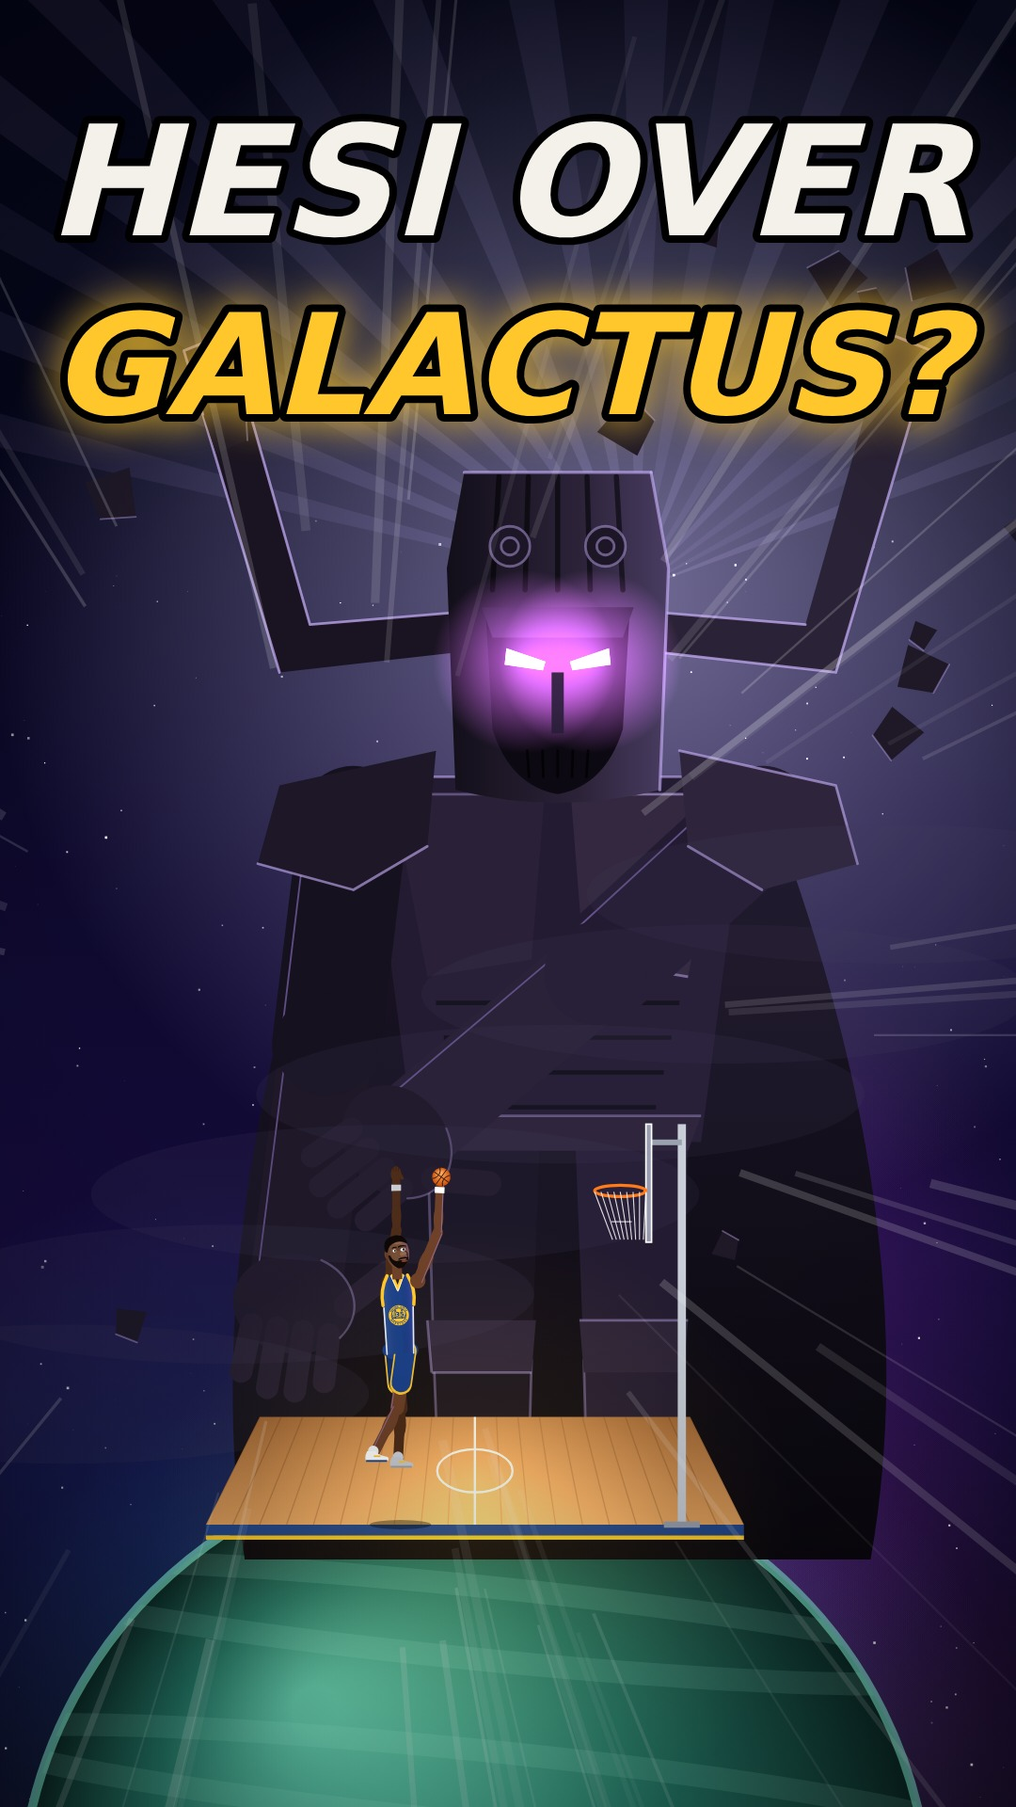
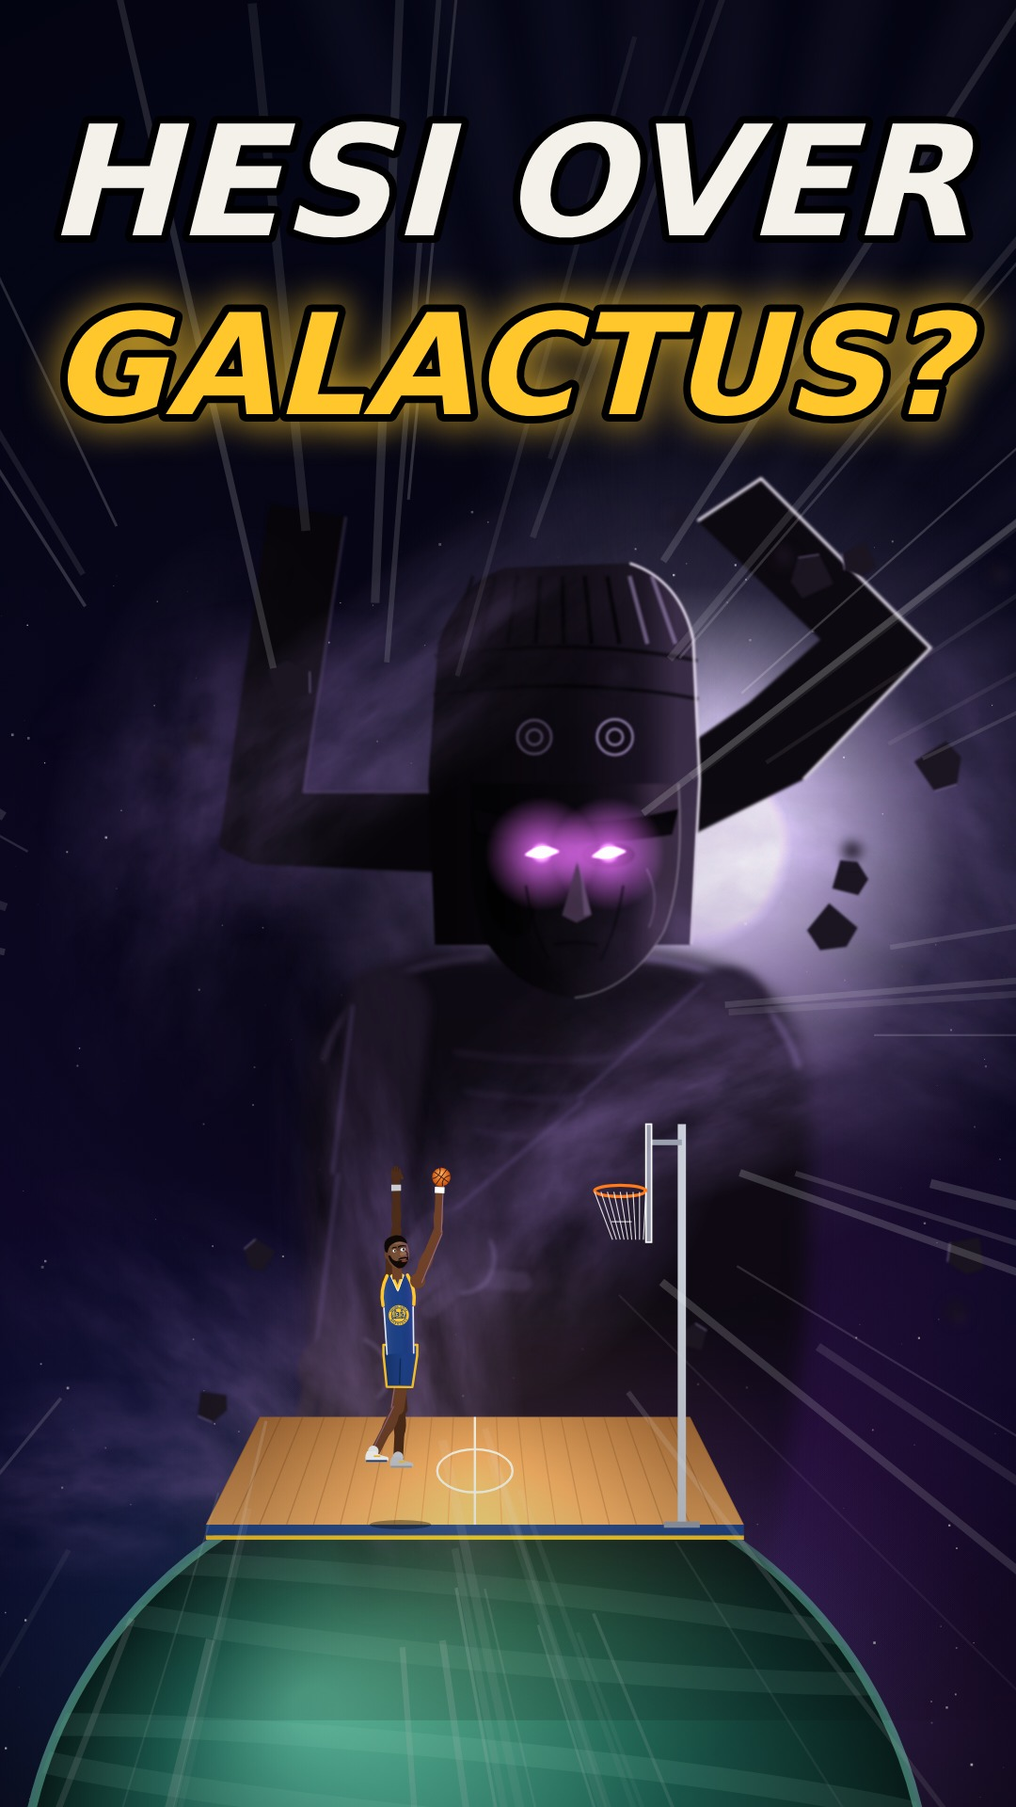
KD vs Galactus: one-piece shorts (hull), Galactus matched side-by-side to the reference (3/4 head, L + chevron fins, crown, texture, backlight)
Claude-Session: https://claude.ai/code/session_013waGN2ARspf4yShZssZUe5

diff --git a/youtube/you-experiment/kd-galactus/source_code/kdg2.html b/youtube/you-experiment/kd-galactus/source_code/kdg2.html
@@ -39,6 +39,15 @@ const hoop = (x, gy, ks, net = 9) => { if (!(net >= 0)) net = 9; g.save(); g.tra
 const ball = (x, y, r, spin = 0) => { g.save(); g.translate(x, y); g.rotate(spin); const q = g.createRadialGradient(-r * 0.35, -r * 0.35, r * 0.1, 0, 0, r); q.addColorStop(0, '#ffab5c'); q.addColorStop(1, '#c9500a'); g.fillStyle = q; g.beginPath(); g.arc(0, 0, r, 0, 7); g.fill(); g.strokeStyle = '#2a1205'; g.lineWidth = r * 0.09; g.beginPath(); g.moveTo(-r, 0); g.lineTo(r, 0); g.moveTo(0, -r); g.lineTo(0, r); g.stroke(); g.beginPath(); g.arc(-r * 1.25, 0, r * 0.9, -0.9, 0.9); g.stroke(); g.beginPath(); g.arc(r * 1.25, 0, r * 0.9, Math.PI - 0.9, Math.PI + 0.9); g.stroke(); g.restore(); };
 const comet = (pts, r) => { for (let i = 0; i < pts.length - 1; i++) { const k = i / pts.length; g.strokeStyle = `rgba(255,${150 + 80 * k},60,${k * 0.8})`; g.lineWidth = r * 2 * k; g.lineCap = 'round'; g.beginPath(); g.moveTo(...pts[i]); g.lineTo(...pts[i + 1]); g.stroke(); } const p = pts[pts.length - 1]; glow(p[0], p[1], r * 5, '255,170,60', 0.7); };
 
+
+// ---------- painterly smoke texture (fbm value noise, generated once) ----------
+const CLOUD = (() => { const n = 384, c = document.createElement('canvas'); c.width = c.height = n; const x = c.getContext('2d'), im = x.createImageData(n, n);
+  const r = (i, j) => { const v = Math.sin(i * 127.1 + j * 311.7) * 43758.5453; return v - Math.floor(v); }; const sm2 = (t) => t * t * (3 - 2 * t);
+  const vn = (px, py) => { const i = Math.floor(px), j = Math.floor(py), fx = sm2(px - i), fy = sm2(py - j); const a = r(i, j), b = r(i + 1, j), c2 = r(i, j + 1), d = r(i + 1, j + 1); return a + (b - a) * fx + (c2 - a) * fy + (a - b - c2 + d) * fx * fy; };
+  for (let yy = 0; yy < n; yy++) for (let xx = 0; xx < n; xx++) { let v = 0, amp = 0.55, f = 4 / n; for (let o = 0; o < 6; o++) { v += vn(xx * f, yy * f) * amp; f *= 2; amp *= 0.5; } const dx = xx / n - 0.5, dy = yy / n - 0.5, fall = Math.max(0, 1 - Math.sqrt(dx * dx + dy * dy) * 2); const a = Math.max(0, Math.min(1, (v - 0.38) * 2.2)) * fall; const k = (yy * n + xx) * 4; im.data[k] = 70 + v * 90; im.data[k + 1] = 55 + v * 70; im.data[k + 2] = 95 + v * 110; im.data[k + 3] = a * 255; }
+  x.putImageData(im, 0, 0); return c; })();
+const smoke = (cx, cy, w, h, a, rot = 0) => { g.save(); g.globalAlpha = a; g.translate(cx, cy); g.rotate(rot); g.drawImage(CLOUD, -w / 2, -h / 2, w, h); g.restore(); };
+
 // ---------- VFX ----------
 const speedLines = (cx, cy, a = 1, n = 70, col = '255,255,255') => { g.save(); g.globalAlpha = a; for (let i = 0; i < n; i++) { const ang = hash(i + Math.floor(T * 24) * 0.1) * Math.PI * 2, r0 = 380 + hash(i + 7) * 300, r1 = r0 + 500 + hash(i + 3) * 900; g.strokeStyle = `rgba(${col},${0.25 + hash(i) * 0.5})`; g.lineWidth = 2 + hash(i + 1) * 8; g.beginPath(); g.moveTo(cx + Math.cos(ang) * r0, cy + Math.sin(ang) * r0); g.lineTo(cx + Math.cos(ang) * r1, cy + Math.sin(ang) * r1); g.stroke(); } g.restore(); };
 const shock = (x, y, u, rMax = 900, col = '255,230,160') => { if (u <= 0 || u >= 1) return; g.save(); g.strokeStyle = `rgba(${col},${1 - u})`; g.lineWidth = 40 * (1 - u); g.beginPath(); g.arc(x, y, rMax * ease(u), 0, 7); g.stroke(); g.lineWidth = 12 * (1 - u); g.beginPath(); g.arc(x, y, rMax * 0.7 * ease(u), 0, 7); g.stroke(); g.restore(); };
@@ -88,9 +97,13 @@ const kd = (x, y, s, pose, o = {}) => { g.save(); g.translate(x, y - (o.jump || 
     const a = Math.atan2(hy - ey, hx - ex); const wx = lerp(ex, hx, 0.84), wy = lerp(ey, hy, 0.84); g.save(); g.translate(wx, wy); g.rotate(a); g.fillStyle = back ? '#c9ccd3' : '#fff'; g.fillRect(-12, -19, 24, 38); g.restore();
     g.save(); g.translate(hx, hy); g.rotate(a); g.fillStyle = sk; g.beginPath(); g.ellipse(22, 0, 30, 21, 0, 0, 7); g.fill(); g.beginPath(); g.ellipse(14, sd * -18 * (o.flip ? -1 : 1), 16, 8, -0.6, 0, 7); g.fill(); g.strokeStyle = 'rgba(0,0,0,0.25)'; g.lineWidth = 3; for (let k = 0; k < 3; k++) { g.beginPath(); g.moveTo(34, -10 + k * 10); g.lineTo(48, -10 + k * 10); g.stroke(); } g.restore();
     return [hx + Math.cos(a) * 26, hy + Math.sin(a) * 26]; };
-  arm(0, true); leg(0, true); sleeve(0, true);
-  g.fillStyle = C.blue; g.beginPath(); g.ellipse(0, -14, 70, 40, 0, 0, 7); g.fill();
-  leg(1, false); sleeve(1, false);
+  arm(0, true); leg(0, true); leg(1, false);
+  // shorts: one garment = convex hull of the waistband and both thigh openings (so no leg can ever poke out of it)
+  { const pts = [[-66, -34], [66, -34], [-60, 10], [60, 10]]; const ends = [];
+    for (const i of [0, 1]) { const hx = i ? 20 : -20; const [kx, ky] = L(i); const ex = lerp(hx, kx, 0.58), ey = lerp(0, ky, 0.58); const a = Math.atan2(ky, kx - hx), nx = Math.cos(a), ny = Math.sin(a); const px = -ny * 46, py = nx * 46; pts.push([ex + px, ey + py], [ex - px, ey - py], [hx + px, py], [hx - px, -py]); ends.push([ex, ey]); }
+    const hull = (P) => { P = P.slice().sort((a, b) => a[0] - b[0] || a[1] - b[1]); const cr = (o, a, b) => (a[0] - o[0]) * (b[1] - o[1]) - (a[1] - o[1]) * (b[0] - o[0]); const lo = [], up = []; for (const p of P) { while (lo.length >= 2 && cr(lo[lo.length - 2], lo[lo.length - 1], p) <= 0) lo.pop(); lo.push(p); } for (const p of P.slice().reverse()) { while (up.length >= 2 && cr(up[up.length - 2], up[up.length - 1], p) <= 0) up.pop(); up.push(p); } return lo.slice(0, -1).concat(up.slice(0, -1)); };
+    const H = hull(pts); g.lineJoin = 'round'; g.beginPath(); H.forEach(([px, py], k) => k ? g.lineTo(px, py) : g.moveTo(px, py)); g.closePath(); g.fillStyle = C.blue; g.fill(); const sq = g.createLinearGradient(-80, 0, 80, 0); sq.addColorStop(0, 'rgba(0,0,0,0.25)'); sq.addColorStop(0.6, 'rgba(0,0,0,0)'); sq.addColorStop(1, 'rgba(140,110,255,0.25)'); g.fillStyle = sq; g.fill(); g.strokeStyle = C.gold; g.lineWidth = 9; g.stroke();
+    g.strokeStyle = 'rgba(8,20,50,0.55)'; g.lineWidth = 5; g.beginPath(); g.moveTo(0, 20); g.lineTo((ends[0][0] + ends[1][0]) / 2, Math.max(ends[0][1], ends[1][1]) - 6); g.stroke(); }
   // jersey: Warriors-style blue tank, gold V-neck (white inner line), wide gold armholes, circle crest with bridge + 35
   g.save(); g.rotate(p.lean); g.fillStyle = C.blue; g.beginPath(); g.moveTo(-40, -305); g.quadraticCurveTo(-70, -250, -60, -190); g.lineTo(-54, 0); g.lineTo(54, 0); g.lineTo(60, -190); g.quadraticCurveTo(70, -250, 40, -305); g.lineTo(18, -305); g.lineTo(0, -255); g.lineTo(-18, -305); g.closePath(); g.fill();
   const jq = g.createLinearGradient(-64, 0, 64, 0); jq.addColorStop(0, 'rgba(255,255,255,0.10)'); jq.addColorStop(0.55, 'rgba(0,0,0,0)'); jq.addColorStop(1, 'rgba(120,90,255,0.32)'); g.fillStyle = jq; g.fill();
@@ -127,12 +140,13 @@ const ghost = (fn, n = 4) => { for (let i = n; i >= 1; i--) { g.save(); g.global
 // side discs and the two huge L-shaped fins, shadowed face, glowing violet eyes, angular armour plates, drifting rocks.
 const DK = '#16111f', DK2 = '#231b31', RIML = 'rgba(205,180,255,';
 const plate = (pts, col, rimA = 0.5) => { g.fillStyle = col; g.beginPath(); pts.forEach(([px, py], i) => i ? g.lineTo(px, py) : g.moveTo(px, py)); g.closePath(); g.fill(); g.strokeStyle = RIML + rimA + ')'; g.lineWidth = 6; g.beginPath(); for (let i = 0; i < pts.length - 1; i++) { const [ax, ay] = pts[i], [bx, by] = pts[i + 1]; if (bx > ax || by < ay) { g.moveTo(ax, ay); g.lineTo(bx, by); } } g.stroke(); };
-const giant = (x, y, s0, o = {}) => { const s = s0 * 0.8; /* head drawn 1.3x: keep helmet top at the official 28'9" */ g.save(); g.translate(x, y); g.scale(s, s); const zs = Math.abs(g.getTransform().a) || 1; const bl = (px) => `blur(${Math.max(0.5, px * zs * 3).toFixed(1)}px)`;
+const giant = (x, y, s0, o = {}) => { const s = s0 * 0.75; /* head drawn 1.3x: keep helmet top at the official 28'9" */ g.save(); g.translate(x, y); g.scale(s, s); const zs = Math.abs(g.getTransform().a) || 1; const bl = (px) => `blur(${Math.max(0.5, px * zs * 3).toFixed(1)}px)`;
   // 1. backlight bloom + soft rays from behind the upper right of the head
-  glow(260, -2250, 1700, '235,225,255', 0.5); glow(260, -2250, 600, '255,250,255', 0.6);
-  g.save(); g.filter = bl(14); g.globalCompositeOperation = 'lighter'; for (let i = 0; i < 18; i++) { const a = -Math.PI * 0.62 + i * 0.13 + Math.sin(T * 0.25 + i) * 0.02, len = 2400 + hash(i) * 1600; g.fillStyle = `rgba(215,200,255,${0.05 + hash(i + 3) * 0.05})`; g.beginPath(); g.moveTo(260, -2250); g.lineTo(260 + Math.cos(a - 0.035) * len, -2250 + Math.sin(a - 0.035) * len); g.lineTo(260 + Math.cos(a + 0.035) * len, -2250 + Math.sin(a + 0.035) * len); g.closePath(); g.fill(); } g.restore();
+  { const dq = g.createRadialGradient(0, -1700, 300, 0, -1700, 2800); dq.addColorStop(0, 'rgba(4,3,6,0.75)'); dq.addColorStop(1, 'rgba(4,3,6,0)'); g.fillStyle = dq; g.fillRect(-3000, -4600, 6000, 5200); } glow(420, -2080, 1300, '215,200,245', 0.32); g.save(); g.globalCompositeOperation = 'lighter'; smoke(560, -2150, 1300, 900, 0.35, 0.4); smoke(300, -2500, 1100, 800, 0.25, 1.4); g.restore(); glow(430, -2080, 800, '255,250,255', 0.85); glow(400, -2070, 320, '255,255,255', 1); glow(400, -2070, 140, '255,255,255', 1);
+  g.save(); g.filter = bl(14); g.globalCompositeOperation = 'lighter'; for (let i = 0; i < 18; i++) { const a = -Math.PI * 0.62 + i * 0.13 + Math.sin(T * 0.25 + i) * 0.02, len = 2400 + hash(i) * 1600; g.fillStyle = `rgba(215,200,255,${0.025 + hash(i + 3) * 0.025})`; g.beginPath(); g.moveTo(260, -2250); g.lineTo(260 + Math.cos(a - 0.035) * len, -2250 + Math.sin(a - 0.035) * len); g.lineTo(260 + Math.cos(a + 0.035) * len, -2250 + Math.sin(a + 0.035) * len); g.closePath(); g.fill(); } g.restore();
+  for (let k = 0; k < 5; k++) smoke(-900 + k * 520 + Math.sin(T * 0.2 + k) * 60, -2300 + (k % 2) * 400, 1600, 1100, 0.45, k);
   // 2. smoky body mass: shoulders + chest dissolving downward
-  g.save(); g.filter = bl(10); const bq = g.createLinearGradient(0, -1800, 0, 300); bq.addColorStop(0, 'rgba(22,16,30,1)'); bq.addColorStop(0.55, 'rgba(20,15,28,0.92)'); bq.addColorStop(1, 'rgba(20,15,28,0)'); g.fillStyle = bq;
+  g.save(); g.filter = bl(10); const bq = g.createLinearGradient(0, -1800, 0, 300); bq.addColorStop(0, 'rgba(14,10,19,1)'); bq.addColorStop(0.55, 'rgba(13,9,17,0.94)'); bq.addColorStop(1, 'rgba(20,15,28,0)'); g.fillStyle = bq;
   g.beginPath(); g.moveTo(-200, -1760); g.quadraticCurveTo(-700, -1750, -760, -1420); g.quadraticCurveTo(-820, -600, -620, 300); g.lineTo(620, 300); g.quadraticCurveTo(820, -600, 760, -1420); g.quadraticCurveTo(700, -1750, 200, -1760); g.closePath(); g.fill(); g.restore();
   // armour hints catching the back light (right side brighter)
   g.save(); g.filter = bl(3); g.strokeStyle = 'rgba(200,170,255,0.5)'; g.lineWidth = 12; g.beginPath(); g.moveTo(220, -1740); g.quadraticCurveTo(650, -1720, 740, -1400); g.stroke(); g.strokeStyle = 'rgba(200,170,255,0.22)'; g.beginPath(); g.moveTo(-220, -1740); g.quadraticCurveTo(-640, -1720, -720, -1420); g.stroke();
@@ -143,30 +157,33 @@ const giant = (x, y, s0, o = {}) => { const s = s0 * 0.8; /* head drawn 1.3x: ke
     g.save(); g.translate(hx, hy); g.rotate(-ang2 * sd + (a > 0.5 ? Math.PI : 0)); g.filter = bl(2); g.fillStyle = '#1c1525'; g.beginPath(); g.ellipse(0, 40, 140, 115, 0, 0, 7); g.fill(); for (let f = 0; f < 4; f++) bone(-90 + f * 60, 100, -100 + f * 64, 240 + (f === 0 || f === 3 ? -30 : 0), 54, '#211a2b'); bone(120, 30, 210, -60, 60, '#211a2b'); g.strokeStyle = 'rgba(205,180,255,0.4)'; g.lineWidth = 6; g.beginPath(); g.ellipse(0, 40, 140, 115, 0, -1.2, 0.6); g.stroke(); g.restore(); return [hx, hy]; };
   arm(-1, o.left || 0); const hp = arm(1, o.hand || 0, o.reach || 1);
   g.save(); g.translate(0, -1700); g.scale(1.3, 1.3); g.translate(0, 1700);
-  // 4. the fins: from ear level straight out, then a sharp turn upward (thick bars, lit on the upper edges)
-  g.save(); g.filter = bl(2.5); for (const sd of [-1, 1]) { const pts = [[sd * 230, -1940], [sd * 700, -1930], [sd * 860, -1960], [sd * 1010, -2700], [sd * 840, -2760], [sd * 640, -2100], [sd * 230, -2110]]; g.fillStyle = sd > 0 ? '#2a2033' : '#17111d'; g.beginPath(); pts.forEach(([px, py], i) => i ? g.lineTo(px, py) : g.moveTo(px, py)); g.closePath(); g.fill();
-    g.strokeStyle = `rgba(215,190,255,${sd > 0 ? 0.75 : 0.35})`; g.lineWidth = 9; g.beginPath(); g.moveTo(sd * 230, -2110); g.lineTo(sd * 640, -2100); g.lineTo(sd * 840, -2760); g.lineTo(sd * 1010, -2700); g.stroke(); } g.restore();
-  // 5. crowned helmet: tall rounded crown with bands and side discs
-  g.save(); g.filter = bl(1.5); const hq = g.createLinearGradient(-260, 0, 260, 0); hq.addColorStop(0, '#120d17'); hq.addColorStop(0.65, '#2a2034'); hq.addColorStop(1, '#4b3a5e'); g.fillStyle = hq;
-  g.beginPath(); g.moveTo(-240, -1720); g.lineTo(-250, -2180); g.quadraticCurveTo(-245, -2400, -160, -2470); g.quadraticCurveTo(0, -2520, 160, -2470); g.quadraticCurveTo(245, -2400, 250, -2180); g.lineTo(240, -1720); g.closePath(); g.fill();
-  g.strokeStyle = 'rgba(0,0,0,0.5)'; g.lineWidth = 10; for (const yy of [-2380, -2280]) { g.beginPath(); g.moveTo(-235, yy + 10); g.quadraticCurveTo(0, yy - 30, 235, yy + 10); g.stroke(); } 
-  g.strokeStyle = 'rgba(220,195,255,0.6)'; g.lineWidth = 8; g.beginPath(); g.moveTo(160, -2470); g.quadraticCurveTo(245, -2400, 250, -2180); g.lineTo(240, -1720); g.stroke();
-  for (const sd of [-1, 1]) { g.fillStyle = '#1a1420'; g.beginPath(); g.arc(sd * 150, -2210, 44, 0, 7); g.fill(); g.strokeStyle = `rgba(210,185,255,${sd > 0 ? 0.55 : 0.25})`; g.lineWidth = 6; g.stroke(); g.beginPath(); g.arc(sd * 150, -2210, 18, 0, 7); g.stroke(); }
-  // 6. weathered face: brow, deep sockets with burning eyes, nose, cheekbones, grim mouth, lined chin
-  const fq = g.createLinearGradient(-170, 0, 170, 0); fq.addColorStop(0, '#0e0a12'); fq.addColorStop(0.6, '#2a1f30'); fq.addColorStop(1, '#4a3550'); g.fillStyle = fq;
-  g.beginPath(); g.moveTo(-170, -2120); g.lineTo(170, -2120); g.quadraticCurveTo(185, -1900, 150, -1790); g.quadraticCurveTo(90, -1660, 0, -1650); g.quadraticCurveTo(-90, -1660, -150, -1790); g.quadraticCurveTo(-185, -1900, -170, -2120); g.fill();
-  g.fillStyle = '#100b14'; g.beginPath(); g.moveTo(-160, -2060); g.quadraticCurveTo(0, -2000, 160, -2060); g.lineTo(150, -2010); g.quadraticCurveTo(0, -1970, -150, -2010); g.closePath(); g.fill();
-  for (const sd of [-1, 1]) { g.fillStyle = '#07050a'; g.beginPath(); g.ellipse(sd * 70, -1965, 62, 30, sd * -0.12, 0, 7); g.fill(); }
-  const ey = o.eyes ?? 1; for (const sd of [-1, 1]) { g.fillStyle = '#fff0ff'; g.beginPath(); g.moveTo(sd * 30, -1968); g.quadraticCurveTo(sd * 70, -1990 - 5 * ey, sd * 112, -1978); g.quadraticCurveTo(sd * 70, -1952, sd * 30, -1968); g.fill(); glow(sd * 70, -1970, 150 + 90 * (ey - 1), '235,100,255', 0.9); }
-  g.fillStyle = 'rgba(80,60,90,0.6)'; g.beginPath(); g.moveTo(8, -1955); g.lineTo(30, -1840); g.lineTo(0, -1825); g.lineTo(-22, -1840); g.closePath(); g.fill();
-  g.strokeStyle = 'rgba(0,0,0,0.55)'; g.lineWidth = 5; g.beginPath(); g.moveTo(-45, -1768); g.quadraticCurveTo(0, -1776, 45, -1768); g.stroke(); for (const sd of [-1, 1]) { g.beginPath(); g.moveTo(sd * 110, -1900); g.quadraticCurveTo(sd * 95, -1800, sd * 60, -1730); g.stroke(); }
+  // 4. fins in 3/4 view: left = L (out, then up, leaning in); right = sharp chevron pointing out-and-up
+  g.save(); g.filter = bl(1.5);
+  const finL = [[-270, -1930], [-720, -1950], [-800, -1990], [-680, -2800], [-500, -2770], [-600, -2120], [-270, -2120]];
+  const finR = [[320, -2020], [580, -2150], [880, -2460], [480, -2860], [330, -2760], [620, -2480], [450, -2330], [320, -2240]];
+  g.fillStyle = '#070509'; g.beginPath(); finL.forEach(([px, py], k) => k ? g.lineTo(px, py) : g.moveTo(px, py)); g.closePath(); g.fill(); g.strokeStyle = 'rgba(190,160,235,0.22)'; g.lineWidth = 6; g.beginPath(); g.moveTo(-270, -2120); g.lineTo(-600, -2120); g.lineTo(-500, -2770); g.stroke();
+  g.fillStyle = '#0d0910'; g.beginPath(); finR.forEach(([px, py], k) => k ? g.lineTo(px, py) : g.moveTo(px, py)); g.closePath(); g.fill(); g.strokeStyle = 'rgba(248,240,255,0.95)'; g.lineWidth = 7; g.beginPath(); g.moveTo(330, -2760); g.lineTo(480, -2860); g.lineTo(880, -2460); g.lineTo(580, -2150); g.stroke(); g.restore();
+  // 5. crown helmet, turned slightly to our right (face centre at x=+40)
+  g.save(); g.filter = bl(1.2); const FX = 40; const hq = g.createLinearGradient(-260, 0, 280, 0); hq.addColorStop(0, '#050306'); hq.addColorStop(0.55, '#0f0b13'); hq.addColorStop(0.85, '#1c1523'); hq.addColorStop(1, '#3a2d47'); g.fillStyle = hq;
+  g.beginPath(); g.moveTo(-290, -1760); g.lineTo(-305, -2150); g.lineTo(-282, -2470); g.quadraticCurveTo(-230, -2620, -120, -2650); g.lineTo(170, -2660); g.quadraticCurveTo(290, -2620, 320, -2480); g.lineTo(335, -2150); g.lineTo(315, -1760); g.closePath(); g.fill(); g.save(); g.clip(); g.globalCompositeOperation = 'multiply'; g.globalAlpha = 0.7; g.drawImage(CLOUD, -380, -2700, 780, 1050); g.restore();
   
-  g.strokeStyle = 'rgba(225,200,255,0.45)'; g.lineWidth = 6; g.beginPath(); g.moveTo(170, -2120); g.quadraticCurveTo(185, -1900, 150, -1790); g.quadraticCurveTo(90, -1660, 0, -1650); g.stroke();
-  if (o.mouth) { g.fillStyle = '#000'; g.beginPath(); g.ellipse(0, -1760, 90 * o.mouth, 58 * o.mouth, 0, 0, 7); g.fill(); glow(0, -1760, 220 * o.mouth, '255,80,220', 0.5); }
+  g.strokeStyle = 'rgba(0,0,0,0.6)'; g.lineWidth = 9; g.beginPath(); g.moveTo(-290, -2440); g.quadraticCurveTo(FX, -2490, 330, -2430); g.stroke(); g.beginPath(); g.moveTo(-292, -2350); g.quadraticCurveTo(FX, -2395, 332, -2340); g.stroke();
+  g.strokeStyle = 'rgba(248,240,255,0.9)'; g.lineWidth = 6; g.beginPath(); g.moveTo(170, -2660); g.quadraticCurveTo(290, -2620, 320, -2480); g.lineTo(335, -2150); g.lineTo(315, -1760); g.stroke(); for (let k = 0; k < 9; k++) { const xx = -250 + k * 66; g.strokeStyle = xx > 150 ? 'rgba(200,175,235,0.45)' : 'rgba(0,0,0,0.7)'; g.lineWidth = 10; g.beginPath(); g.moveTo(xx * 0.8, -2630); g.lineTo(xx, -2470); g.stroke(); }
+  for (const [cx, rr, lit] of [[FX - 95, 40, 0.3], [FX + 95, 42, 0.6]]) { g.fillStyle = '#100b14'; g.beginPath(); g.arc(cx, -2250, rr, 0, 7); g.fill(); g.strokeStyle = `rgba(215,190,255,${lit})`; g.lineWidth = 6; g.stroke(); g.beginPath(); g.arc(cx, -2250, rr * 0.45, 0, 7); g.stroke(); }
+  // 6. sculpted face: dark left half, lit right edge, deep brow, burning eyes, broad nose, set mouth, heavy chin
+  const fq = g.createLinearGradient(-160, 0, 230, 0); fq.addColorStop(0, '#030204'); fq.addColorStop(0.55, '#0b080e'); fq.addColorStop(0.85, '#191220'); fq.addColorStop(1, '#3a2b42'); g.fillStyle = fq;
+  g.beginPath(); g.moveTo(-200, -2140); g.lineTo(285, -2140); g.quadraticCurveTo(300, -1910, 250, -1790); g.quadraticCurveTo(170, -1650, FX, -1635); g.quadraticCurveTo(-100, -1650, -175, -1780); g.quadraticCurveTo(-215, -1910, -200, -2140); g.fill(); g.save(); g.clip(); g.globalCompositeOperation = 'multiply'; g.globalAlpha = 0.75; g.drawImage(CLOUD, -300, -2200, 640, 620); g.restore();
+  g.fillStyle = '#060408'; g.beginPath(); g.moveTo(-200, -2080); g.quadraticCurveTo(FX, -2020, 285, -2080); g.lineTo(270, -2020); g.quadraticCurveTo(FX, -1980, -190, -2025); g.closePath(); g.fill(); g.fillStyle = 'rgba(0,0,0,0.45)'; g.beginPath(); g.ellipse(FX - 150, -1870, 55, 90, -0.2, 0, 7); g.fill(); g.strokeStyle = 'rgba(150,120,175,0.35)'; g.lineWidth = 5; g.beginPath(); g.moveTo(FX + 170, -1940); g.quadraticCurveTo(FX + 205, -1870, FX + 175, -1800); g.stroke();
+  for (const [cx, w] of [[FX - 78, 58], [FX + 80, 62]]) { g.fillStyle = '#040305'; g.beginPath(); g.ellipse(cx, -1972, w, 30, 0, 0, 7); g.fill(); }
+  const ey = o.eyes ?? 1; for (const [cx, sd] of [[FX - 78, -1], [FX + 80, 1]]) { g.fillStyle = '#fff2ff'; g.beginPath(); g.moveTo(cx - 40, -1970 + sd * 2); g.quadraticCurveTo(cx, -1995 - 5 * ey, cx + 42, -1980); g.quadraticCurveTo(cx, -1958, cx - 40, -1970 + sd * 2); g.fill(); glow(cx, -1975, 80 + 60 * (ey - 1), '240,110,255', 0.9); glow(cx, -1977, 26, '255,230,255', 0.9); }
+  g.fillStyle = 'rgba(70,52,78,0.85)'; g.beginPath(); g.moveTo(FX + 6, -1955); g.lineTo(FX + 40, -1830); g.lineTo(FX + 4, -1812); g.lineTo(FX - 30, -1830); g.closePath(); g.fill(); g.fillStyle = 'rgba(150,120,170,0.35)'; g.beginPath(); g.moveTo(FX + 12, -1950); g.lineTo(FX + 40, -1832); g.lineTo(FX + 22, -1828); g.closePath(); g.fill();
+  g.strokeStyle = 'rgba(0,0,0,0.65)'; g.lineWidth = 7; g.beginPath(); g.moveTo(FX - 50, -1760); g.quadraticCurveTo(FX, -1772, FX + 55, -1760); g.stroke(); g.lineWidth = 5; for (const sd of [-1, 1]) { g.beginPath(); g.moveTo(FX + sd * 115, -1900); g.quadraticCurveTo(FX + sd * 100, -1800, FX + sd * 62, -1725); g.stroke(); }
+  g.strokeStyle = 'rgba(248,240,255,0.35)'; g.lineWidth = 4; g.beginPath(); g.moveTo(285, -2140); g.quadraticCurveTo(300, -1910, 250, -1790); g.quadraticCurveTo(170, -1650, FX, -1635); g.stroke();
+  if (o.mouth) { g.fillStyle = '#000'; g.beginPath(); g.ellipse(FX, -1760, 90 * o.mouth, 58 * o.mouth, 0, 0, 7); g.fill(); glow(FX, -1760, 220 * o.mouth, '255,80,220', 0.5); }
   g.restore();
   g.restore();
   // 7. smoke drifting across (in front) + debris rocks at different depths
-  g.save(); g.filter = bl(18); for (let k = 0; k < 9; k++) { const dx = ((T * (25 + k * 4) + k * 420) % 2800) - 1400, dy = -200 - k * 260 + Math.sin(T * 0.4 + k) * 40; g.fillStyle = `rgba(${90 + k * 4},${78 + k * 3},${115 + k * 5},${0.16 + 0.05 * (k % 3)})`; g.beginPath(); g.ellipse(dx, dy, 620 + (k % 3) * 160, 150 + (k % 2) * 60, 0, 0, 7); g.fill(); } g.restore();
+  for (let k = 0; k < 9; k++) { const dx = ((T * (22 + k * 4) + k * 470) % 3000) - 1500, dy = -150 - k * 290 + Math.sin(T * 0.35 + k) * 50; smoke(dx, dy, 1500 + (k % 3) * 400, 700 + (k % 2) * 250, (dy < -1500 ? 0.25 : 0.55) + 0.1 * (k % 3), k * 0.7); }
   for (let k = 0; k < 18; k++) { const depth = hash(k + 11), ax = hash(k) * 2800 - 1400, ay = -200 - hash(k + 3) * 2900 + Math.sin(T * 0.5 + k) * 50, r = 20 + depth * 55; g.save(); g.filter = bl(depth < 0.3 ? 6 : 1); g.translate(ax, ay); g.rotate(T * 0.3 + k); g.fillStyle = '#1b1522'; g.beginPath(); g.moveTo(-r, -r * 0.5); g.lineTo(-r * 0.2, -r); g.lineTo(r * 0.9, -r * 0.6); g.lineTo(r, r * 0.4); g.lineTo(-r * 0.4, r); g.closePath(); g.fill(); g.strokeStyle = 'rgba(210,185,255,0.45)'; g.lineWidth = 4; g.beginPath(); g.moveTo(r * 0.9, -r * 0.6); g.lineTo(r, r * 0.4); g.stroke(); g.restore(); }
   g.restore(); return [x + hp[0] * s, y + hp[1] * s]; };
 const human = (x, y, s, freeze = 0) => { g.save(); g.translate(x, y); g.scale(-s, s); const col = freeze ? '#7a8fa8' : '#6b7280'; seg(-22, -440, -60, -230, 28, 22, col, 0); seg(-60, -230, -40, 0, 22, 16, col, 0); seg(22, -440, 70, -230, 28, 22, col, 0); seg(70, -230, 90, 0, 22, 16, col, 0); g.fillStyle = '#c4202e'; g.fillRect(-62, -740, 124, 310); seg(-60, -720, -220, -560, 20, 15, col, 0); seg(60, -720, 220, -560, 20, 15, col, 0); g.fillStyle = col; g.beginPath(); g.arc(0, -800, 58, 0, 7); g.fill();
